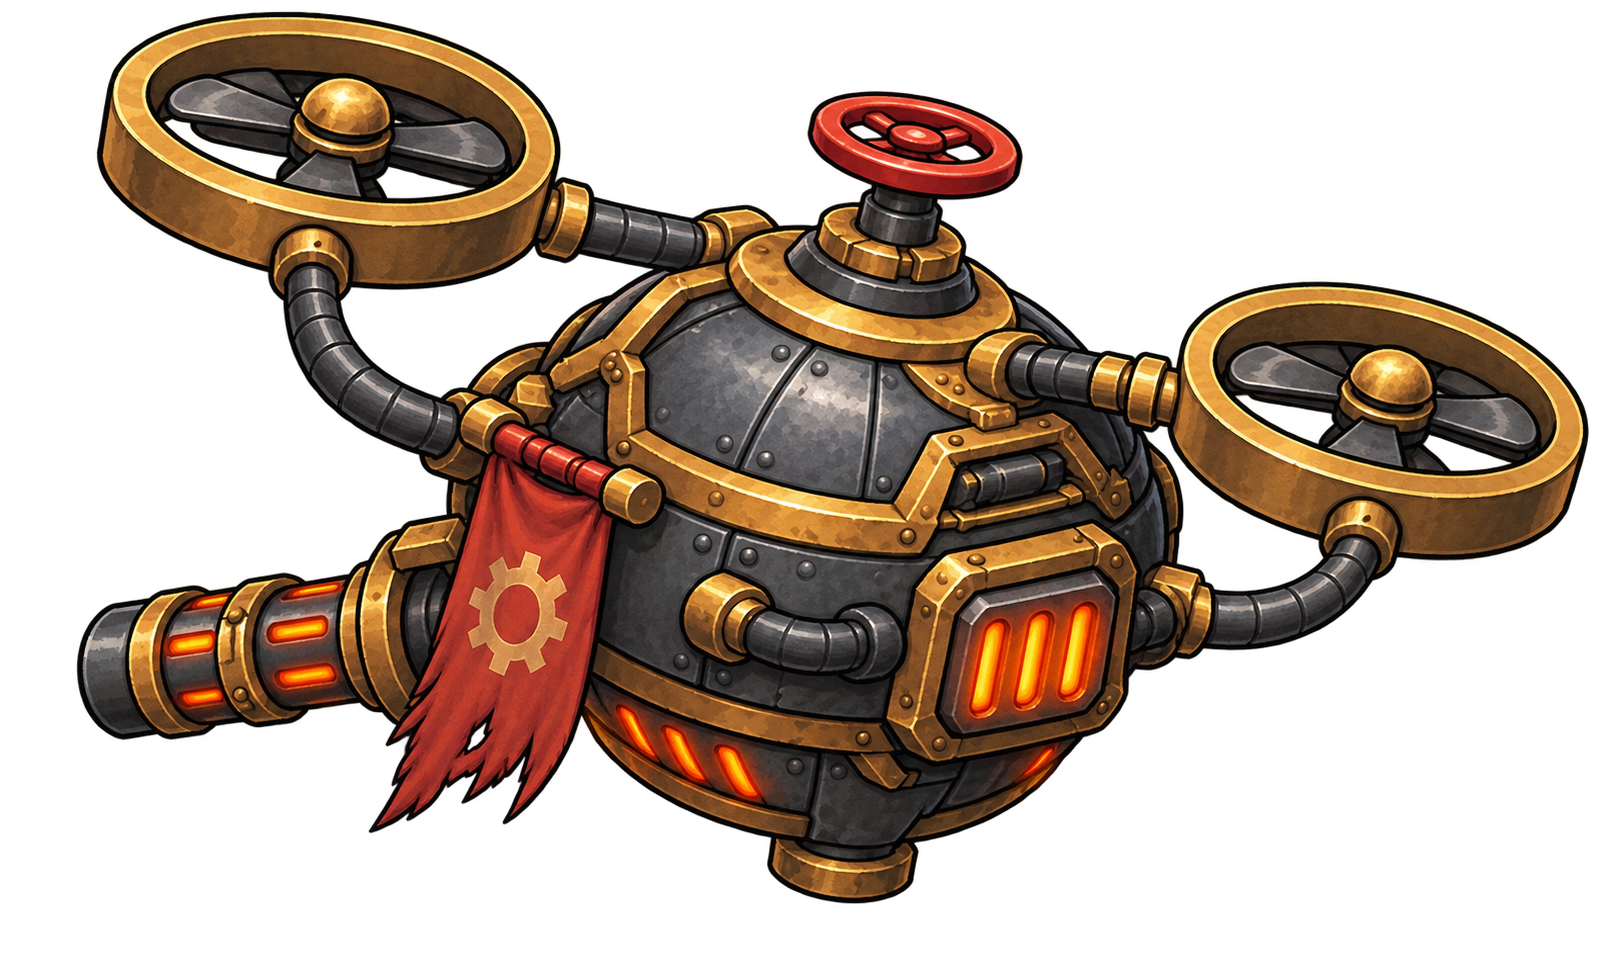
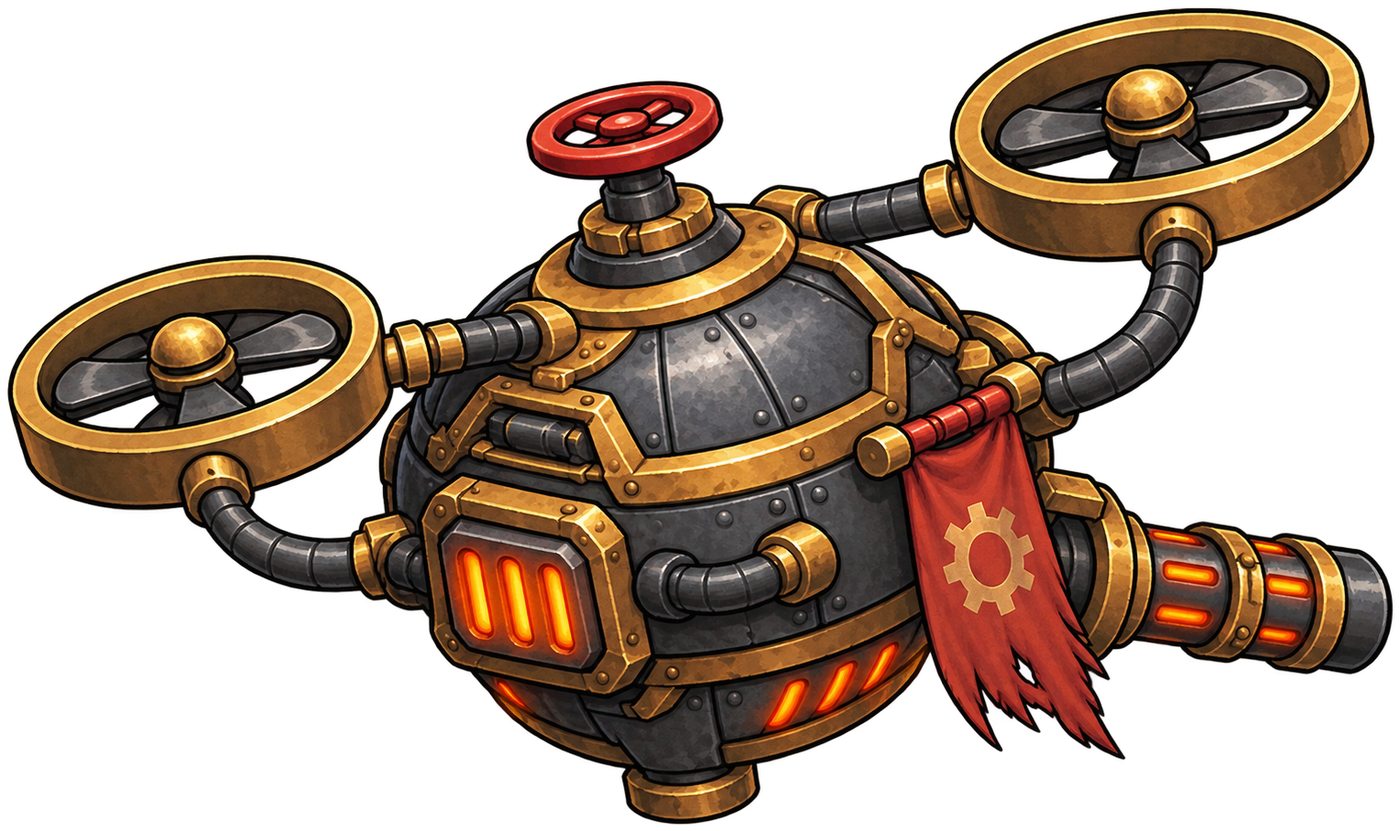
화력로봇 총구 방향 수정 + 정찰/화력 로봇 크기 축소 및 바깥쪽 위로 이동
- firepowerbot.png 좌우 반전(총구가 바깥쪽을 향하던 것을 중앙 방향으로 수정)
- .rig-top 기본 크기 축소(150x120->125x100) + 바깥쪽/위쪽 위치 조정
- 방벽 로봇은 그보다 한 단계 더 작고 더 바깥쪽(기존 로직 유지, 수치만 조정)

diff --git a/index.html b/index.html
@@ -817,15 +817,17 @@
    화면 위쪽 좌/우 구석에 온전히 배치한다. 포탑류(다른 직업들의 rigKind:'turret')는
    기존 bottom:-100px 그대로 유지된다(이 클래스가 안 붙으므로 영향 없음). */
 .rig-slot.rig-top{
-  bottom:auto; top:6px; width:150px; height:120px;
+  bottom:auto; top:-2px; width:125px; height:100px;
 }
 .rig-slot.rig-top img{ object-fit:contain; object-position:center top; }
-/* 방벽 로봇 전용(사용자 요청) — 다른 2종보다 살짝 작게, 더 바깥쪽/위쪽으로. */
+.rig-slot.rig-top.rig-slot-left{ left:-8px; }
+.rig-slot.rig-top.rig-slot-right{ right:-8px; }
+/* 방벽 로봇 전용(사용자 요청) — 다른 2종보다 한 번 더 작게, 더 바깥쪽/위쪽으로. */
 .rig-slot.rig-top.rig-shield{
-  top:-8px; width:120px; height:96px;
+  top:-14px; width:105px; height:85px;
 }
-.rig-slot.rig-top.rig-shield.rig-slot-left{ left:-10px; }
-.rig-slot.rig-top.rig-shield.rig-slot-right{ right:-10px; }
+.rig-slot.rig-top.rig-shield.rig-slot-left{ left:-16px; }
+.rig-slot.rig-top.rig-shield.rig-slot-right{ right:-16px; }
 /* 오메가 유닛일 때는 좌/우 어느 슬롯에 들어있었든 화면 하단 중앙에 크게
    고정 배치한다(사용자 요청 — 참고 이미지처럼 양쪽 포신이 대칭으로 크게
    펼쳐져야 함). omegabot.png 자체가 이미 좌우대칭 구도(양쪽 포신+중앙

diff --git a/CURRENT_STATUS.md b/CURRENT_STATUS.md
@@ -18,6 +18,14 @@
 
 ## 최근 작업
 
+### 화력로봇 총구 방향 수정 + 정찰/화력 로봇도 축소·바깥쪽 이동
+- 사용자가 직접 재업로드한 화력로봇 이미지의 총구가 반대(바깥쪽)를 향하고
+  있어 좌우 반전으로 수정(왼쪽 슬롯 기준 이미지는 총구가 중앙을 향해야 함).
+- `.rig-top` 기본 크기를 150x120→125x100으로 줄이고, 왼쪽/오른쪽 슬롯 모두
+  기존보다 바깥쪽(-8px)·위쪽(top:-2px)으로 이동 — 정찰/화력 로봇에 적용.
+- 방벽 로봇은 그보다 한 단계 더 작고(105x85) 더 바깥쪽(-16px)/위쪽(top:-14px).
+- `node --check` 불필요(HTML/이미지만 변경). 미검증: 실제 화면 배치 확인 필요.
+
 ### 스킬 목록 UI 재조정 — 각성기 테두리 범위 축소 + admin2 소급지급 버그 수정
 - **테두리 색 범위 수정**: 전체 스킬이 아니라 "1차 각성기"(기본 직업
   레벨10 궁극기, 예: 과압각성/메테오/심판의날 등 job.skillLevels[10] 딱 하나)
